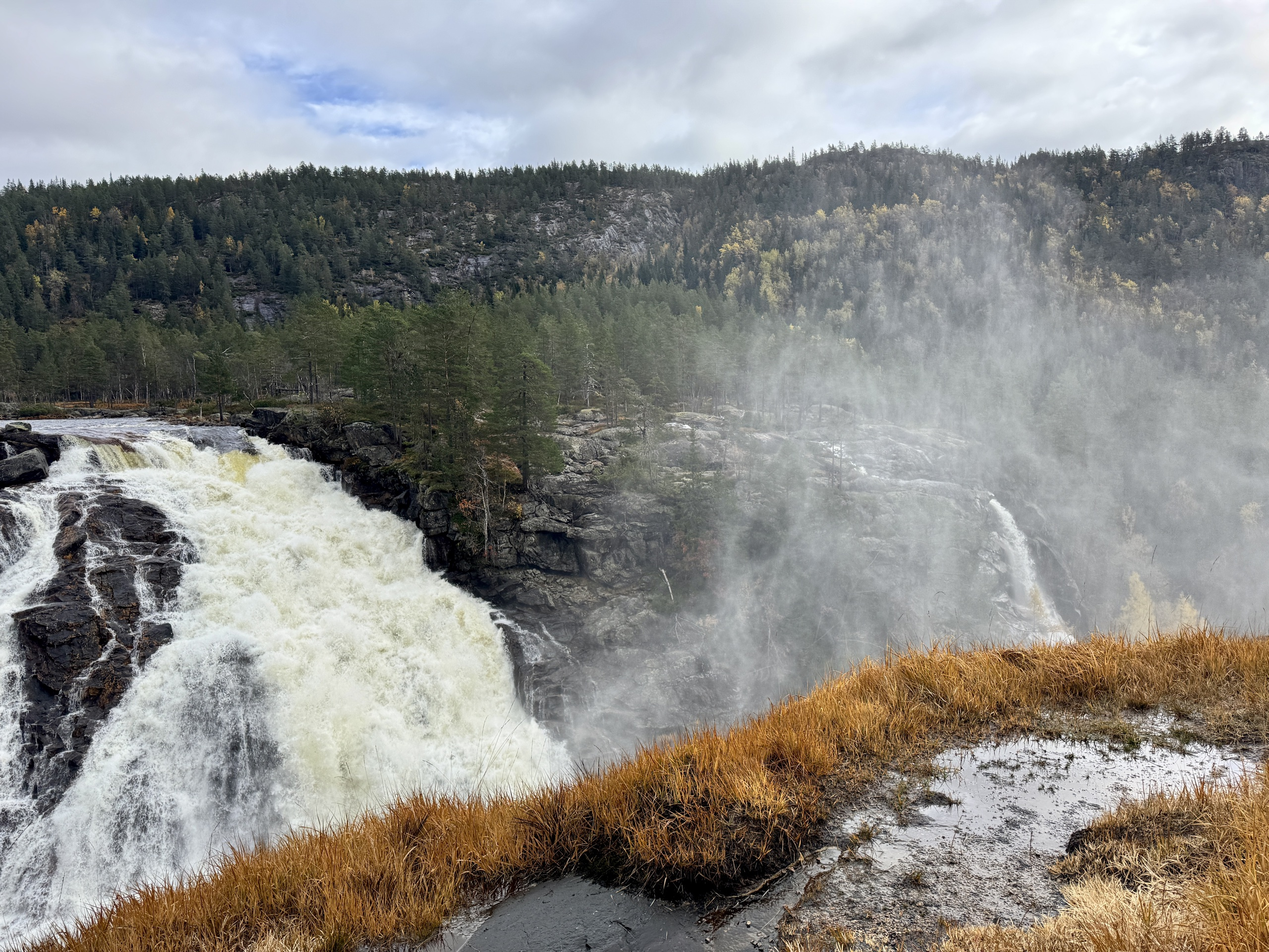
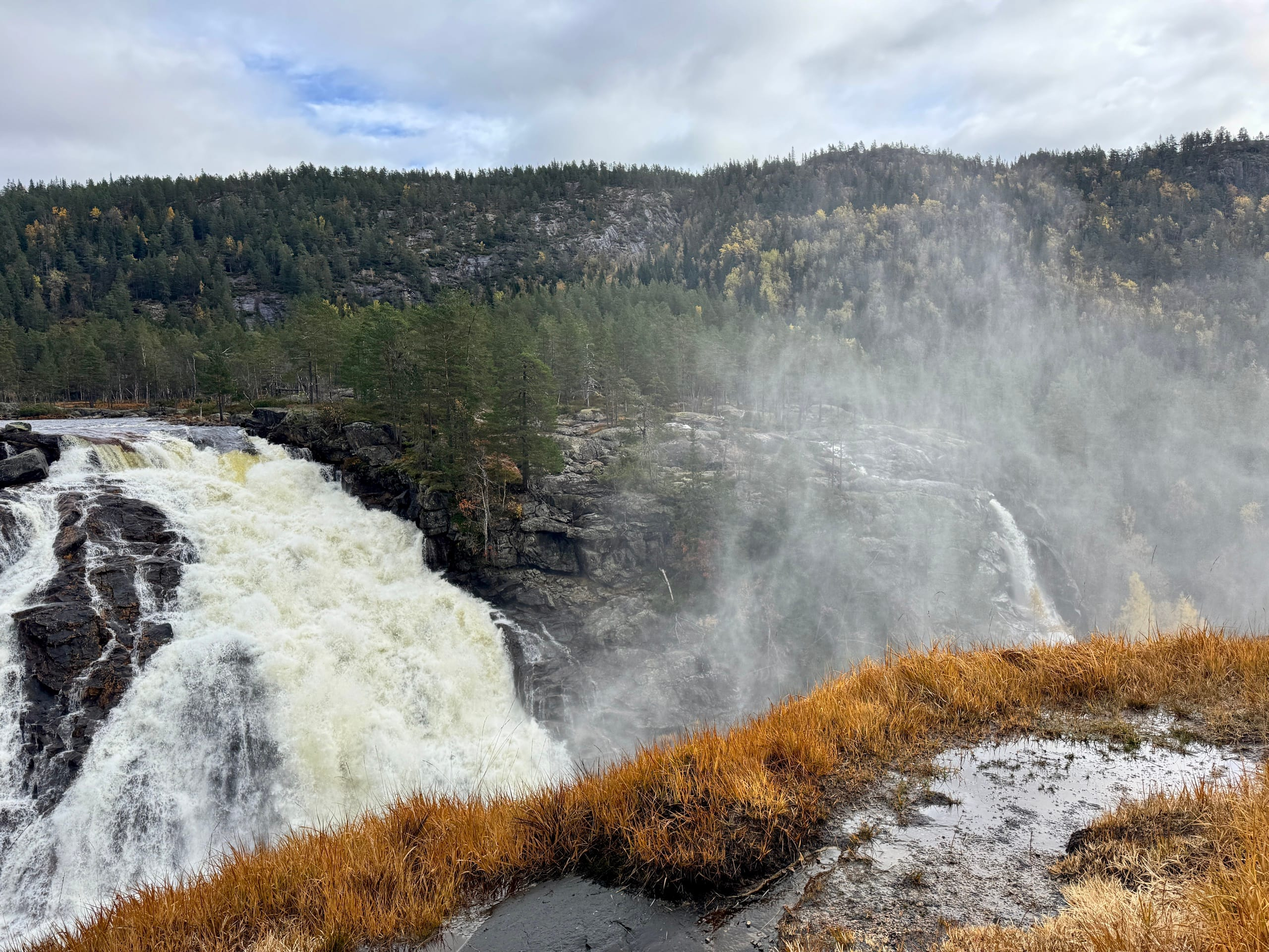
Krymp bildene i public fra 140 MB til 17 MB
Vercel lagrer en kopi av public/ for hver deployment, og Deployment Storage
på gratisplanen (10 GB) var 75 % full – med 140 MB per deployment holdt det
bare til 60–70 pusher.

- Fjernet 16 bilder (52 MB) som ingen side refererer til.
- Bildene som brukes er skalert ned til maks 2560 px og komprimert på nytt
  (JPEG, kvalitet 80) fra originalene – next/image lager uansett mindre
  varianter for besøkende, så ingen synlig forskjell.
- EXIF fjernet (inkl. GPS-posisjon fra iPhone-bildene), etter at
  orienteringen er brukt på selve bildet.
- east-view-no-sheep.png er konvertert til JPEG, og cabin-front-wide.jpeg
  (som egentlig var en PNG) er nå en ekte JPEG.

Originalene ligger fortsatt i git-historikken.

diff --git a/components/Gallery.tsx b/components/Gallery.tsx
@@ -51,7 +51,7 @@ const photos = [
     className: "sm:row-span-2",
   },
   {
-    src: "/images/galleri/east-view-no-sheep.png",
+    src: "/images/galleri/east-view-no-sheep.jpeg",
     alt: "Svaberg og utsiktspunkt i terrenget rundt Lindeview",
     className: "",
   },
